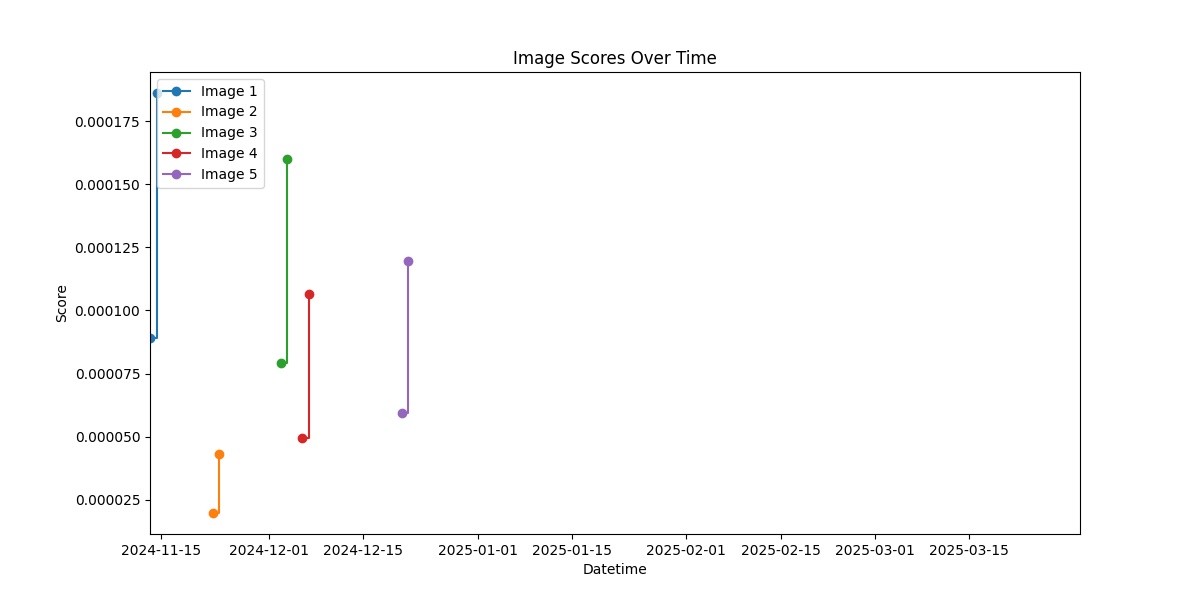
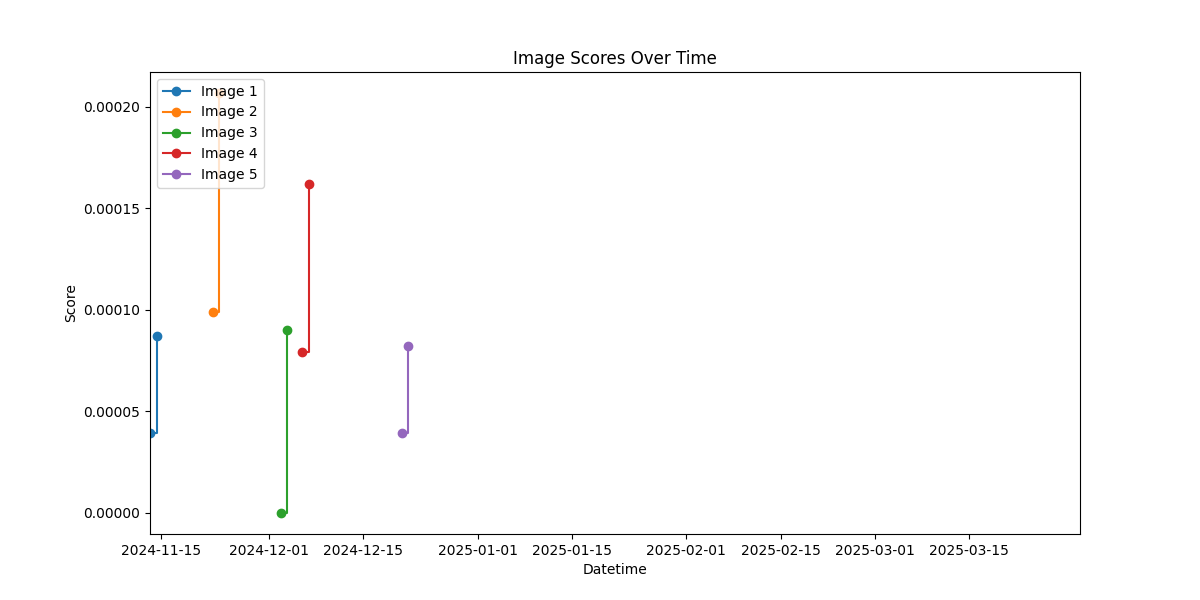
Updated the rate image function output, and it usage

diff --git a/backend/recommend.py b/backend/recommend.py
@@ -132,24 +132,10 @@ def test_recommend(images: list[Image], requests: list[Request], links: list[Lin
     for i, test_case in enumerate(test_cases):
         images_realtime_cumulative_score: list[tuple[Image, list[tuple[datetime, float]]]] = list()
         num_images, num_requests, num_links, expected_highly_recommended_image_ids = test_case
-        images_realtime_scores = compute_image_rating(images[:num_images], requests[:num_requests], links[:num_links])
+        images_realtime_cumulative_score = compute_image_rating(images[:num_images], requests[:num_requests], links[:num_links])
         
-        
-        
-        for image, image_realtime_scores in images_realtime_scores:
-            realtime_cumulative_scores = list()
-            cumulative_score: float = 0.0
-            if len(image_realtime_scores) > 0:
-                latest_datetime = image_realtime_scores[-1][0]
-                for created_at, score in image_realtime_scores:
-                    cumulative_score += score * math.pow(1.01, (0 - (latest_datetime - created_at).total_seconds() / (60 * 60 * 24)))
-                    realtime_cumulative_scores.append((created_at, cumulative_score))
-            images_realtime_cumulative_score.append((image, realtime_cumulative_scores))
-            #print((image.id, realtime_cumulative_scores))
-        #print()
         plot_image_scores(images_realtime_cumulative_score, f"outputs/test_{i}.png")
-            #print(image.id, [score for _, score in image_realtime_scores])
-
+        
 
 def main() -> None:
     images = [
